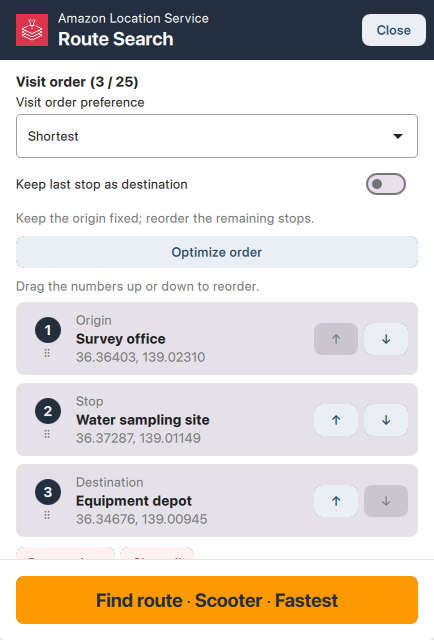
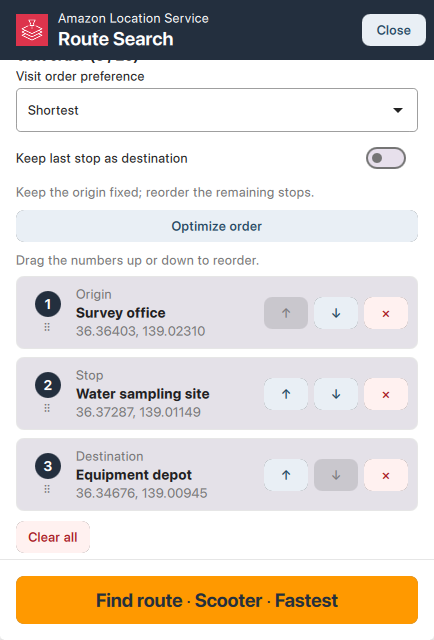
Allow removing individual visits from the route editor

Changed region(s): [[0.03, 0.0938, 0.9885, 0.8438], [0.8387, 0.1562, 0.9585, 0.3125]]

diff --git a/main.qml b/main.qml
@@ -937,6 +937,16 @@ Item {
             }
             MoveButton { stopIndex: card.index; step: -1 }
             MoveButton { stopIndex: card.index; step: 1 }
+            CloseButton {
+                destructive: true
+                enabled: !plugin.pending
+                Layout.preferredWidth: plugin.touchHeight
+                Accessible.name: qsTranslate("AmazonLocationService", "Remove visit %1 to %2").arg(card.index + 1).arg(card.stop ? card.stop.label : "")
+                ToolTip.visible: hovered || pressed
+                ToolTip.text: Accessible.name
+                ToolTip.delay: 600
+                onClicked: plugin.removeStop(card.index)
+            }
         }
     }
 
@@ -1210,11 +1220,13 @@ Item {
                         model: plugin.stops.length
                         delegate: StopCard {}
                     }
-                    RowLayout {
+                    LocationButton {
                         visible: plugin.stops.length > 0
                         enabled: !plugin.pending
-                        LocationButton { text: qsTranslate("AmazonLocationService", "Remove last"); destructive: true; onClicked: plugin.removeStop(plugin.stops.length - 1) }
-                        LocationButton { text: qsTranslate("AmazonLocationService", "Clear all"); destructive: true; onClicked: plugin.stops = [] }
+                        Layout.alignment: Qt.AlignLeft
+                        text: qsTranslate("AmazonLocationService", "Clear all")
+                        destructive: true
+                        onClicked: plugin.stops = []
                     }
                 }
             }

diff --git a/main_ja.ts b/main_ja.ts
@@ -308,10 +308,6 @@
         <translation>番号を上下にドラッグして訪問順を変更できます。</translation>
     </message>
     <message>
-        <source>Remove last</source>
-        <translation>最後の地点を削除</translation>
-    </message>
-    <message>
         <source>Clear all</source>
         <translation>すべて削除</translation>
     </message>

diff --git a/README.md b/README.md
@@ -99,7 +99,7 @@ While you add stops from the map, the service button shows the stop count. Tap *
 
 <img src="img/visit-order-editor.png" alt="Three scooter stops in visit order, with Shortest selected for the order and Fastest for the route" width="360">
 
-To change the order, drag the number at the left of a stop card up or down, or use the **↑** and **↓** buttons at the right to move it one position. **Remove last** removes the last stop. **Clear all** removes all stops and the displayed route.
+To change the order, drag the number at the left of a stop card up or down, or use the **↑** and **↓** buttons to move it one position. Tap **×** on a card to remove that visit. To remove all stops and the displayed route, tap **Clear all** below the list.
 
 When the order is ready, tap the **Find route** button at the bottom. Your stops and their order are retained if you change the travel mode and search again.
 
